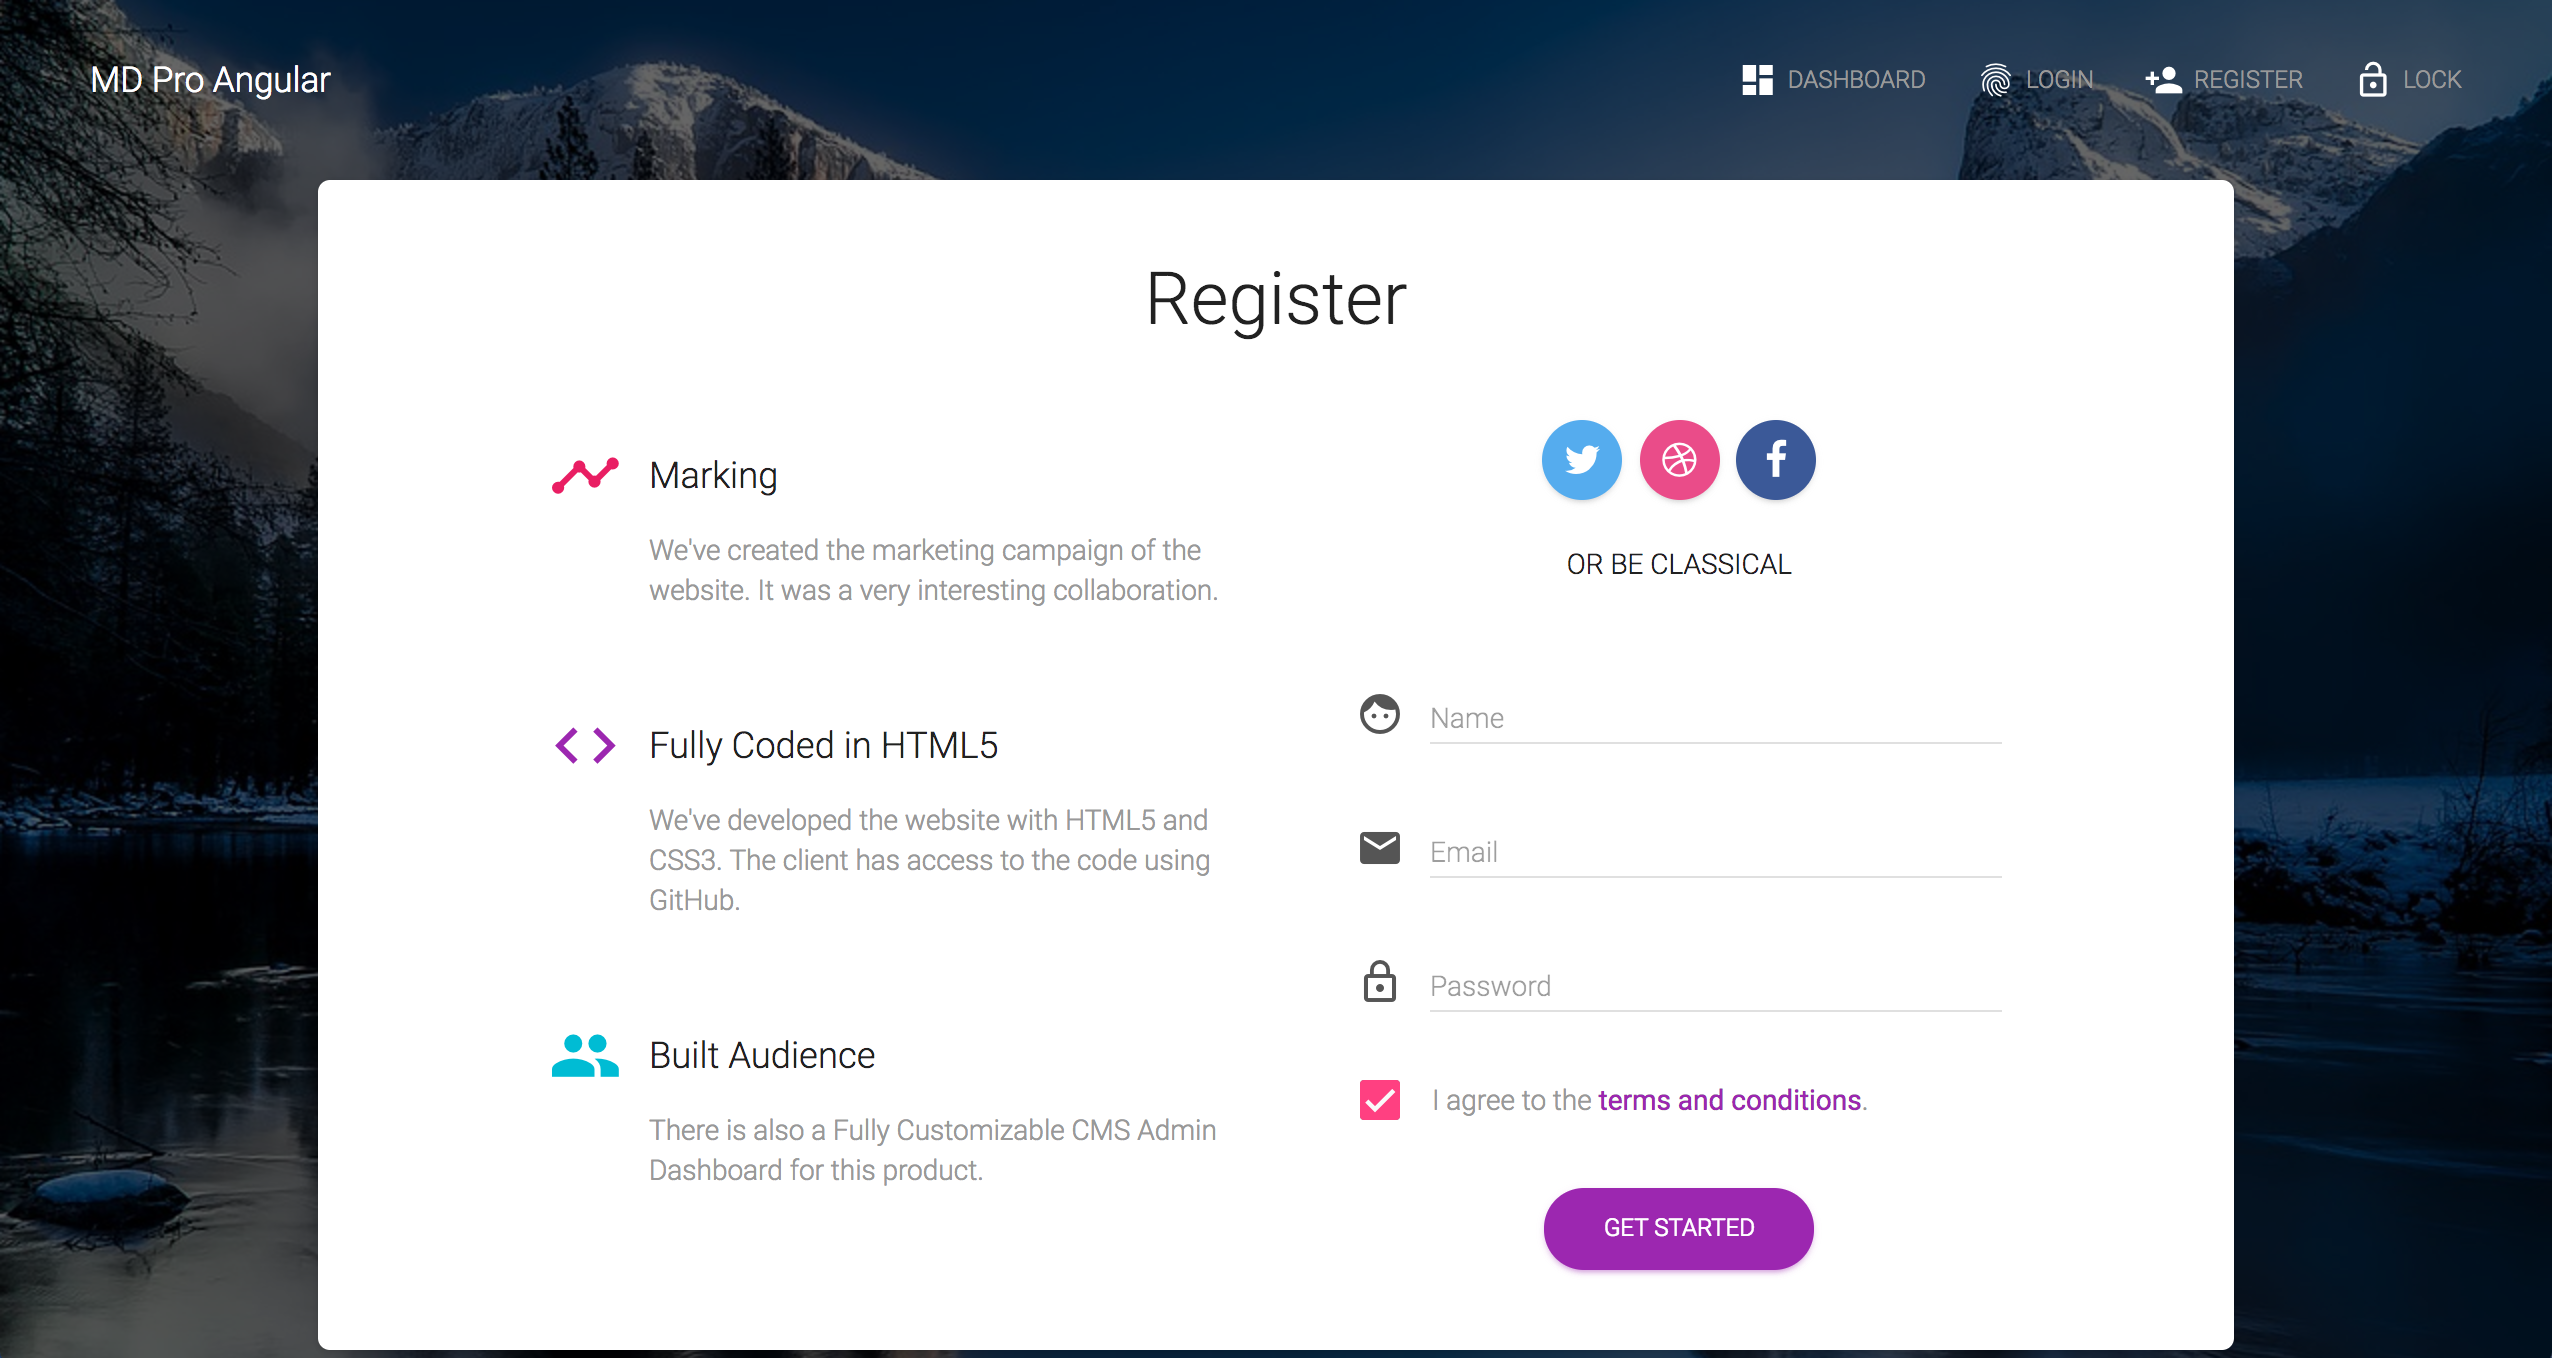
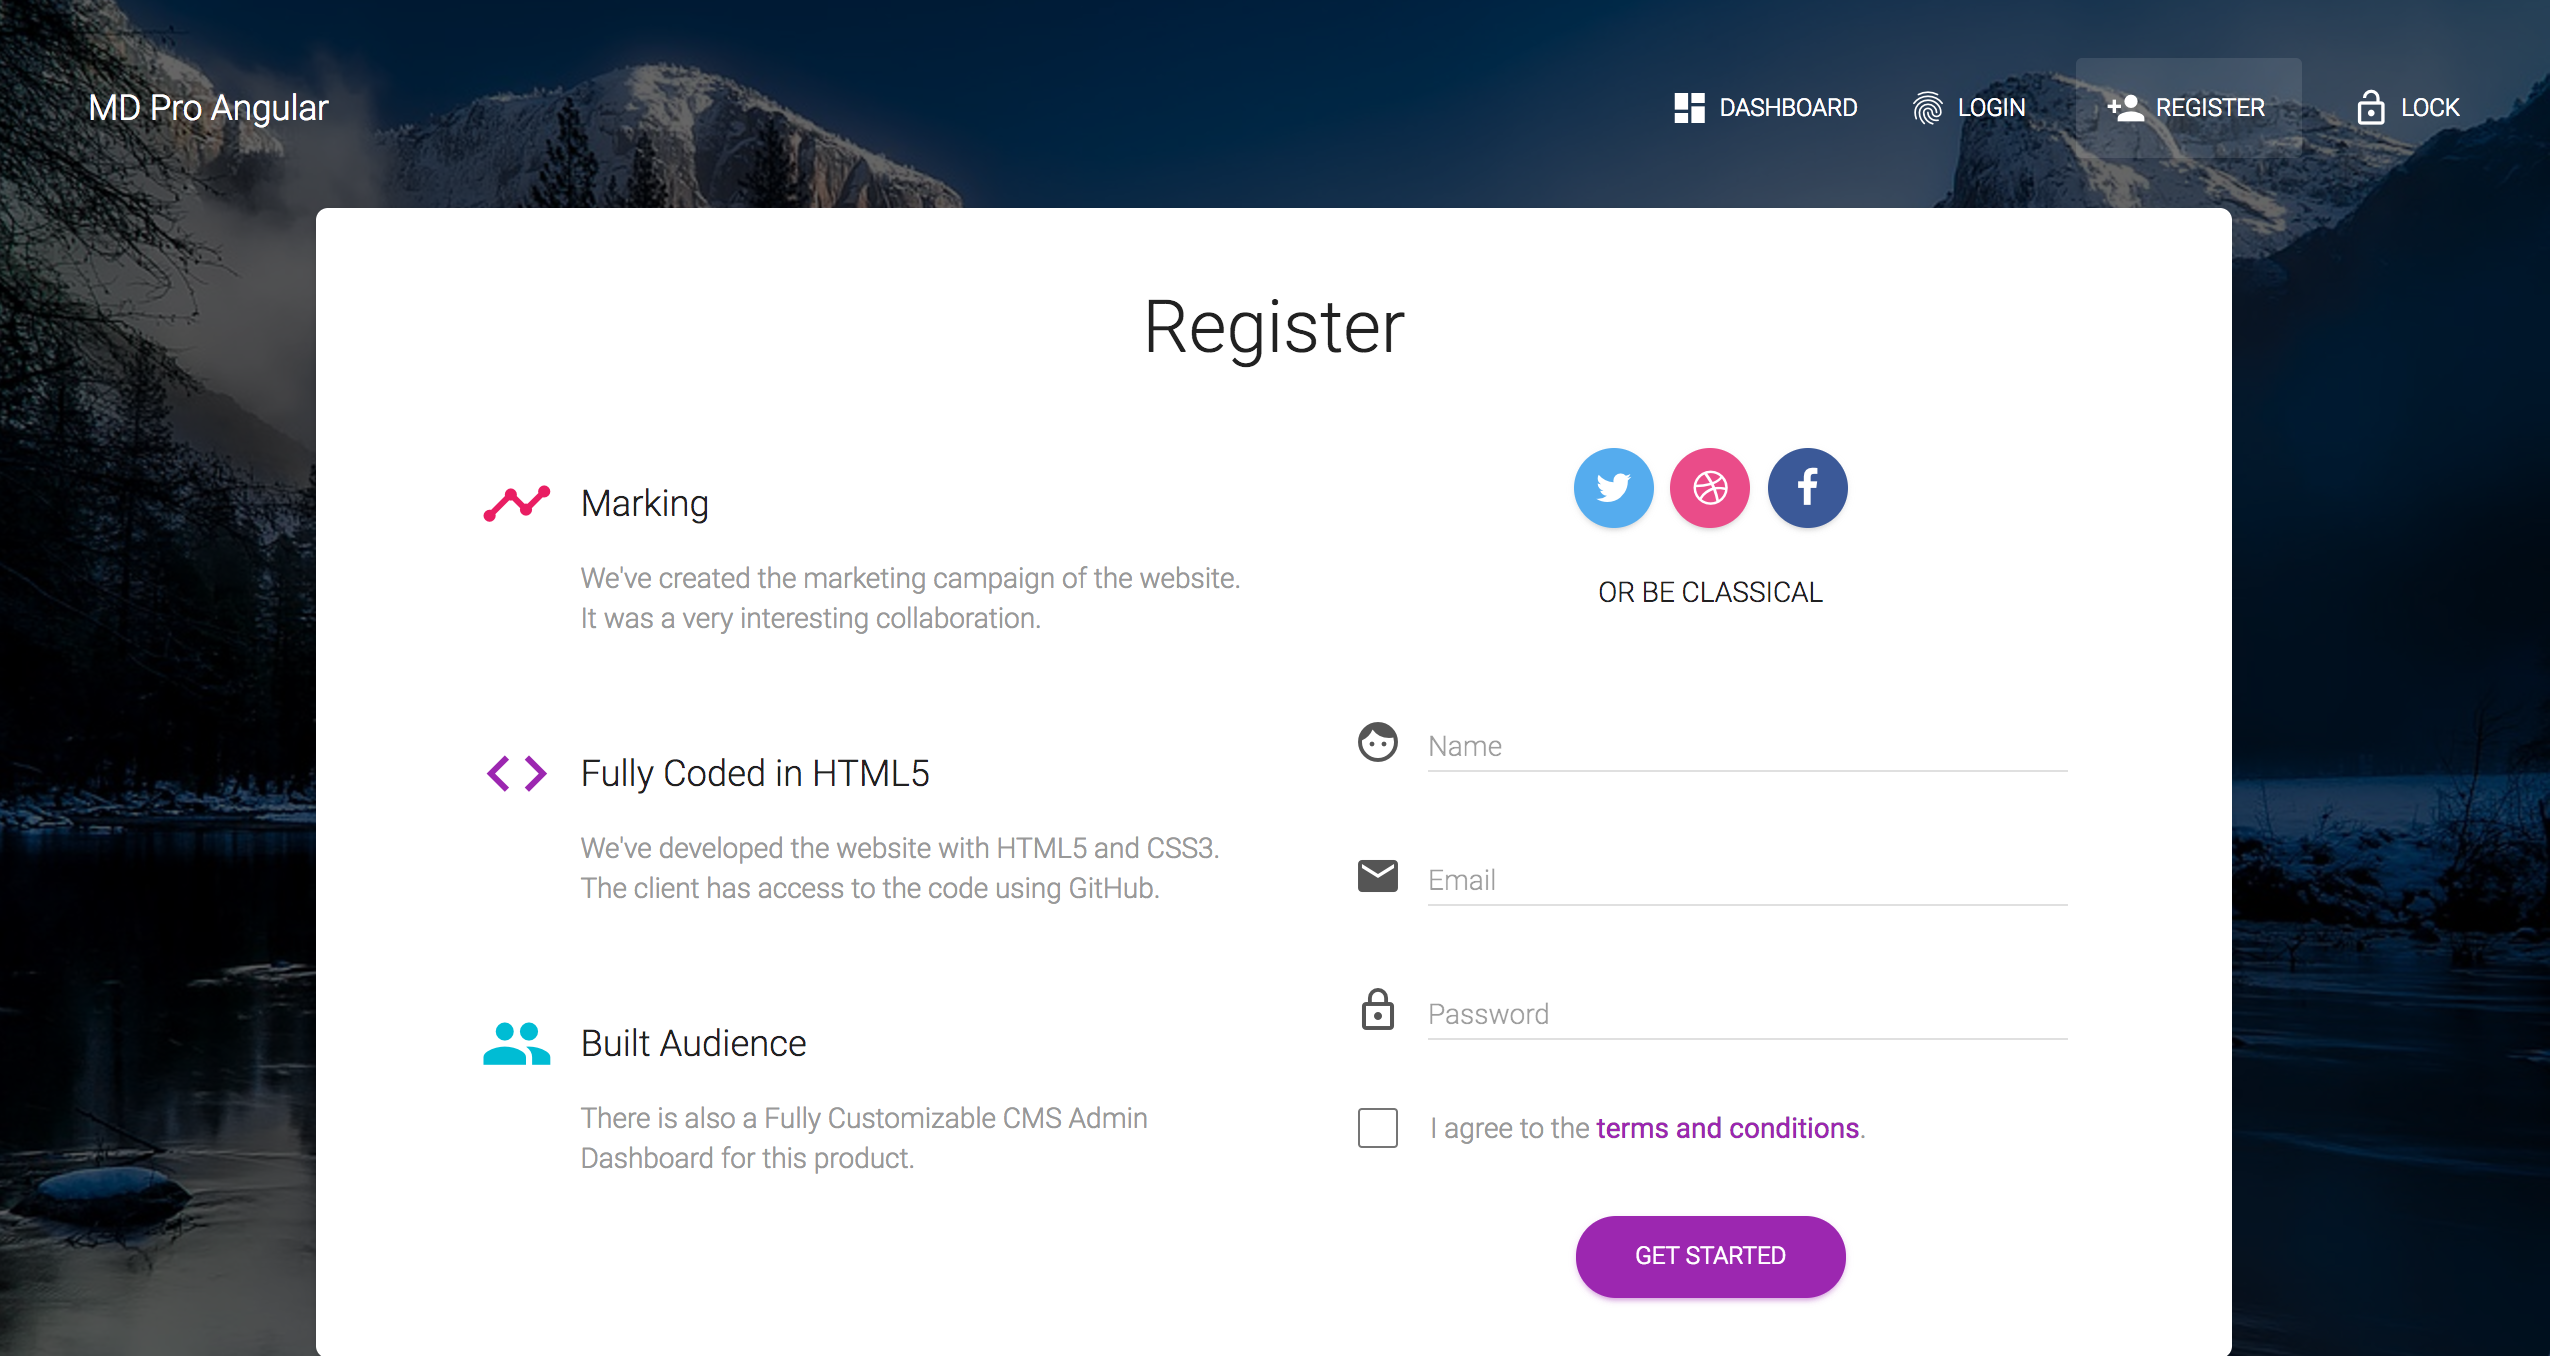
fix some bugs

diff --git a/src/app/dashboard/settings/settings.component.html b/src/app/dashboard/settings/settings.component.html
@@ -4,39 +4,39 @@
     <div class="col-md-10 col-md-offset-1">
       <h4 class="text-center text-uppercase">Sidebar Filters</h4>
       <div class="col-md-12 dot-row">
-        <div class="dot purple" (click)="filterChooseClick('#9c27b0')"></div>
-        <div class="dot blue" (click)="filterChooseClick('#00bcd4')"></div>
-        <div class="dot green" (click)="filterChooseClick('#4caf50')"></div>
-        <div class="dot orange" (click)="filterChooseClick('#ff9800')"></div>
-        <div class="dot red" (click)="filterChooseClick('#f44336')"></div>
-        <div class="dot white" (click)="filterChooseClick('#fff')"></div>
-        <div class="dot rose" (click)="filterChooseClick('#e91e63')"></div>
+        <div class="dot purple btn-hover" (click)="filterChooseClick('#9c27b0')"></div>
+        <div class="dot blue btn-hover" (click)="filterChooseClick('#00bcd4')"></div>
+        <div class="dot green btn-hover" (click)="filterChooseClick('#4caf50')"></div>
+        <div class="dot orange btn-hover" (click)="filterChooseClick('#ff9800')"></div>
+        <div class="dot red btn-hover" (click)="filterChooseClick('#f44336')"></div>
+        <div class="dot white btn-hover" (click)="filterChooseClick('#fff')"></div>
+        <div class="dot rose btn-hover" (click)="filterChooseClick('#e91e63')"></div>
       </div>
     </div>
 
     <div class="col-md-10 col-md-offset-1">
       <h4 class="text-center text-uppercase">Sidebar Background</h4>
       <div class="col-md-12 dot-row">
-        <div class="dot red" (click)="bgColorChooseClick('#D80B0B')"></div>
-        <div class="dot dodgerblue" (click)="bgColorChooseClick('dodgerblue')"></div>
-        <div class="dot white" (click)="bgColorChooseClick('#fff')"></div>
-        <div class="dot black" (click)="bgColorChooseClick('#000')"></div>
+        <div class="dot red btn-hover" (click)="bgColorChooseClick('#D80B0B')"></div>
+        <div class="dot dodgerblue btn-hover" (click)="bgColorChooseClick('dodgerblue')"></div>
+        <div class="dot white btn-hover" (click)="bgColorChooseClick('#fff')"></div>
+        <div class="dot black btn-hover" (click)="bgColorChooseClick('#000')"></div>
       </div>
     </div>
 
     <div class="col-md-10 col-md-offset-1 background-image">
       <h4 class="text-uppercase text-center">SideBar Background Image</h4>
       <div class="col-md-3 col-sm-3 col-xs-6">
-        <img src="../../../assets/img/sidebar-1.jpg" alt="sidebar-bg" class="sidebar-img" (click)="bgChooseClick(0)"/>
+        <img src="../../../assets/img/sidebar-1.jpg" alt="sidebar-bg" class="sidebar-img btn-hover" (click)="bgChooseClick(0)"/>
       </div>
       <div class="col-md-3 col-sm-3 col-xs-6">
-        <img src="../../../assets/img/sidebar-2.jpg" alt="sidebar-bg" class="sidebar-img" (click)="bgChooseClick(1)"/>
+        <img src="../../../assets/img/sidebar-2.jpg" alt="sidebar-bg" class="sidebar-img btn-hover" (click)="bgChooseClick(1)"/>
       </div>
       <div class="col-md-3 col-sm-3 col-xs-6">
-        <img src="../../../assets/img/sidebar-3.jpg" alt="sidebar-bg" class="sidebar-img" (click)="bgChooseClick(2)"/>
+        <img src="../../../assets/img/sidebar-3.jpg" alt="sidebar-bg" class="sidebar-img btn-hover" (click)="bgChooseClick(2)"/>
       </div>
       <div class="col-md-3 col-sm-3 col-xs-6">
-        <img src="../../../assets/img/sidebar-4.jpg" alt="sidebar-bg" class="sidebar-img" (click)="bgChooseClick(3)"/>
+        <img src="../../../assets/img/sidebar-4.jpg" alt="sidebar-bg" class="sidebar-img btn-hover" (click)="bgChooseClick(3)"/>
       </div>
     </div>
   </div>

diff --git a/src/app/dashboard/settings/settings.component.css b/src/app/dashboard/settings/settings.component.css
@@ -17,7 +17,7 @@
   border: 4px solid transparent;
 }
 
-.sidebar-img:hover{
+.btn-hover:hover{
   border-color: rgba(0, 187, 255, 0.5);
   -webkit-transition: all 400ms;
   -moz-transition: all 400ms;
@@ -26,7 +26,7 @@
   transition: all 400ms;
 }
 
-.background-image .active{
+.active{
   border-color: #00bbff;
 }
 
@@ -37,9 +37,10 @@
 }
 
 .dot{
+  border: 3px solid transparent;
   border-radius: 50%;
-  width: 30px;
-  height: 30px;
+  width: 23px;
+  height: 23px;
   margin: 0 10px;
   cursor: pointer;
 }

diff --git a/src/app/page/register/register.component.css b/src/app/page/register/register.component.css
@@ -4,17 +4,17 @@
   z-index: 1;
 }
 
-.background{
-  background: url("../../../assets/img/register_bg.jpg") no-repeat center center;
+.background {
+  background: url("../../../assets/img/register_bg.jpg") center center;
   background-size: cover;
 }
 
 .register-panel{
-  margin-top: 40px;
+  margin-top: 25px;
 }
 
 .card{
-  padding: 40px;
+  padding: 40px 0 30px;
 }
 
 .card h2{

diff --git a/src/app/shared/navbar/navbar.component.ts b/src/app/shared/navbar/navbar.component.ts
@@ -13,6 +13,6 @@ export class NavbarComponent implements OnInit {
   }
 
   menuClick() {
-    document.getElementById('main-panel').style.marginRight = '260px';
+   // document.getElementById('main-panel').style.marginRight = '260px';
   }
 }

diff --git a/README.md b/README.md
@@ -1,10 +1,15 @@
 # Angular2 Material Dashboard Pro
 
-This project was generated with [Angular CLI](https://github.com/angular/angular-cli) version 1.0.4.
+Material-design Dashboard
 
-## Attention
+## How to run it
 
-This project is still in development.
+**- please ensure you have installed angular cli, otherwise `npm install -g @angular/cli`**
+
+1. git clone https://github.com/wangdicoder/angular-material-dashboard
+2. cd angular-material-dashboard
+3. npm install
+4. ng serve -o (it will automatically open localhost:4200)
 
 ## Screenshot
 
@@ -31,11 +36,23 @@ This project is still in development.
 ### Notification
 ![](https://github.com/wangdicoder/angular2-material-dashboard-pro/raw/master/screenshot/notification.gif)
 
+### Settings
+![](https://github.com/wangdicoder/angular2-material-dashboard-pro/raw/master/screenshot/settings.gif)
+
+### Table
+![](https://github.com/wangdicoder/angular2-material-dashboard-pro/raw/master/screenshot/table.png)
+
+### Price
+![](https://github.com/wangdicoder/angular2-material-dashboard-pro/raw/master/screenshot/price.png)
+
+### Panels
+![](https://github.com/wangdicoder/angular2-material-dashboard-pro/raw/master/screenshot/panel.png)
 
 ## Acknowledge 
 
 - [Creative Tim](https://github.com/creativetimofficial)
 - [Sweet Alert 2](https://github.com/limonte/sweetalert2)
+- [Bootstrap Notify](http://bootstrap-notify.remabledesigns.com)
 
 ## License
 
